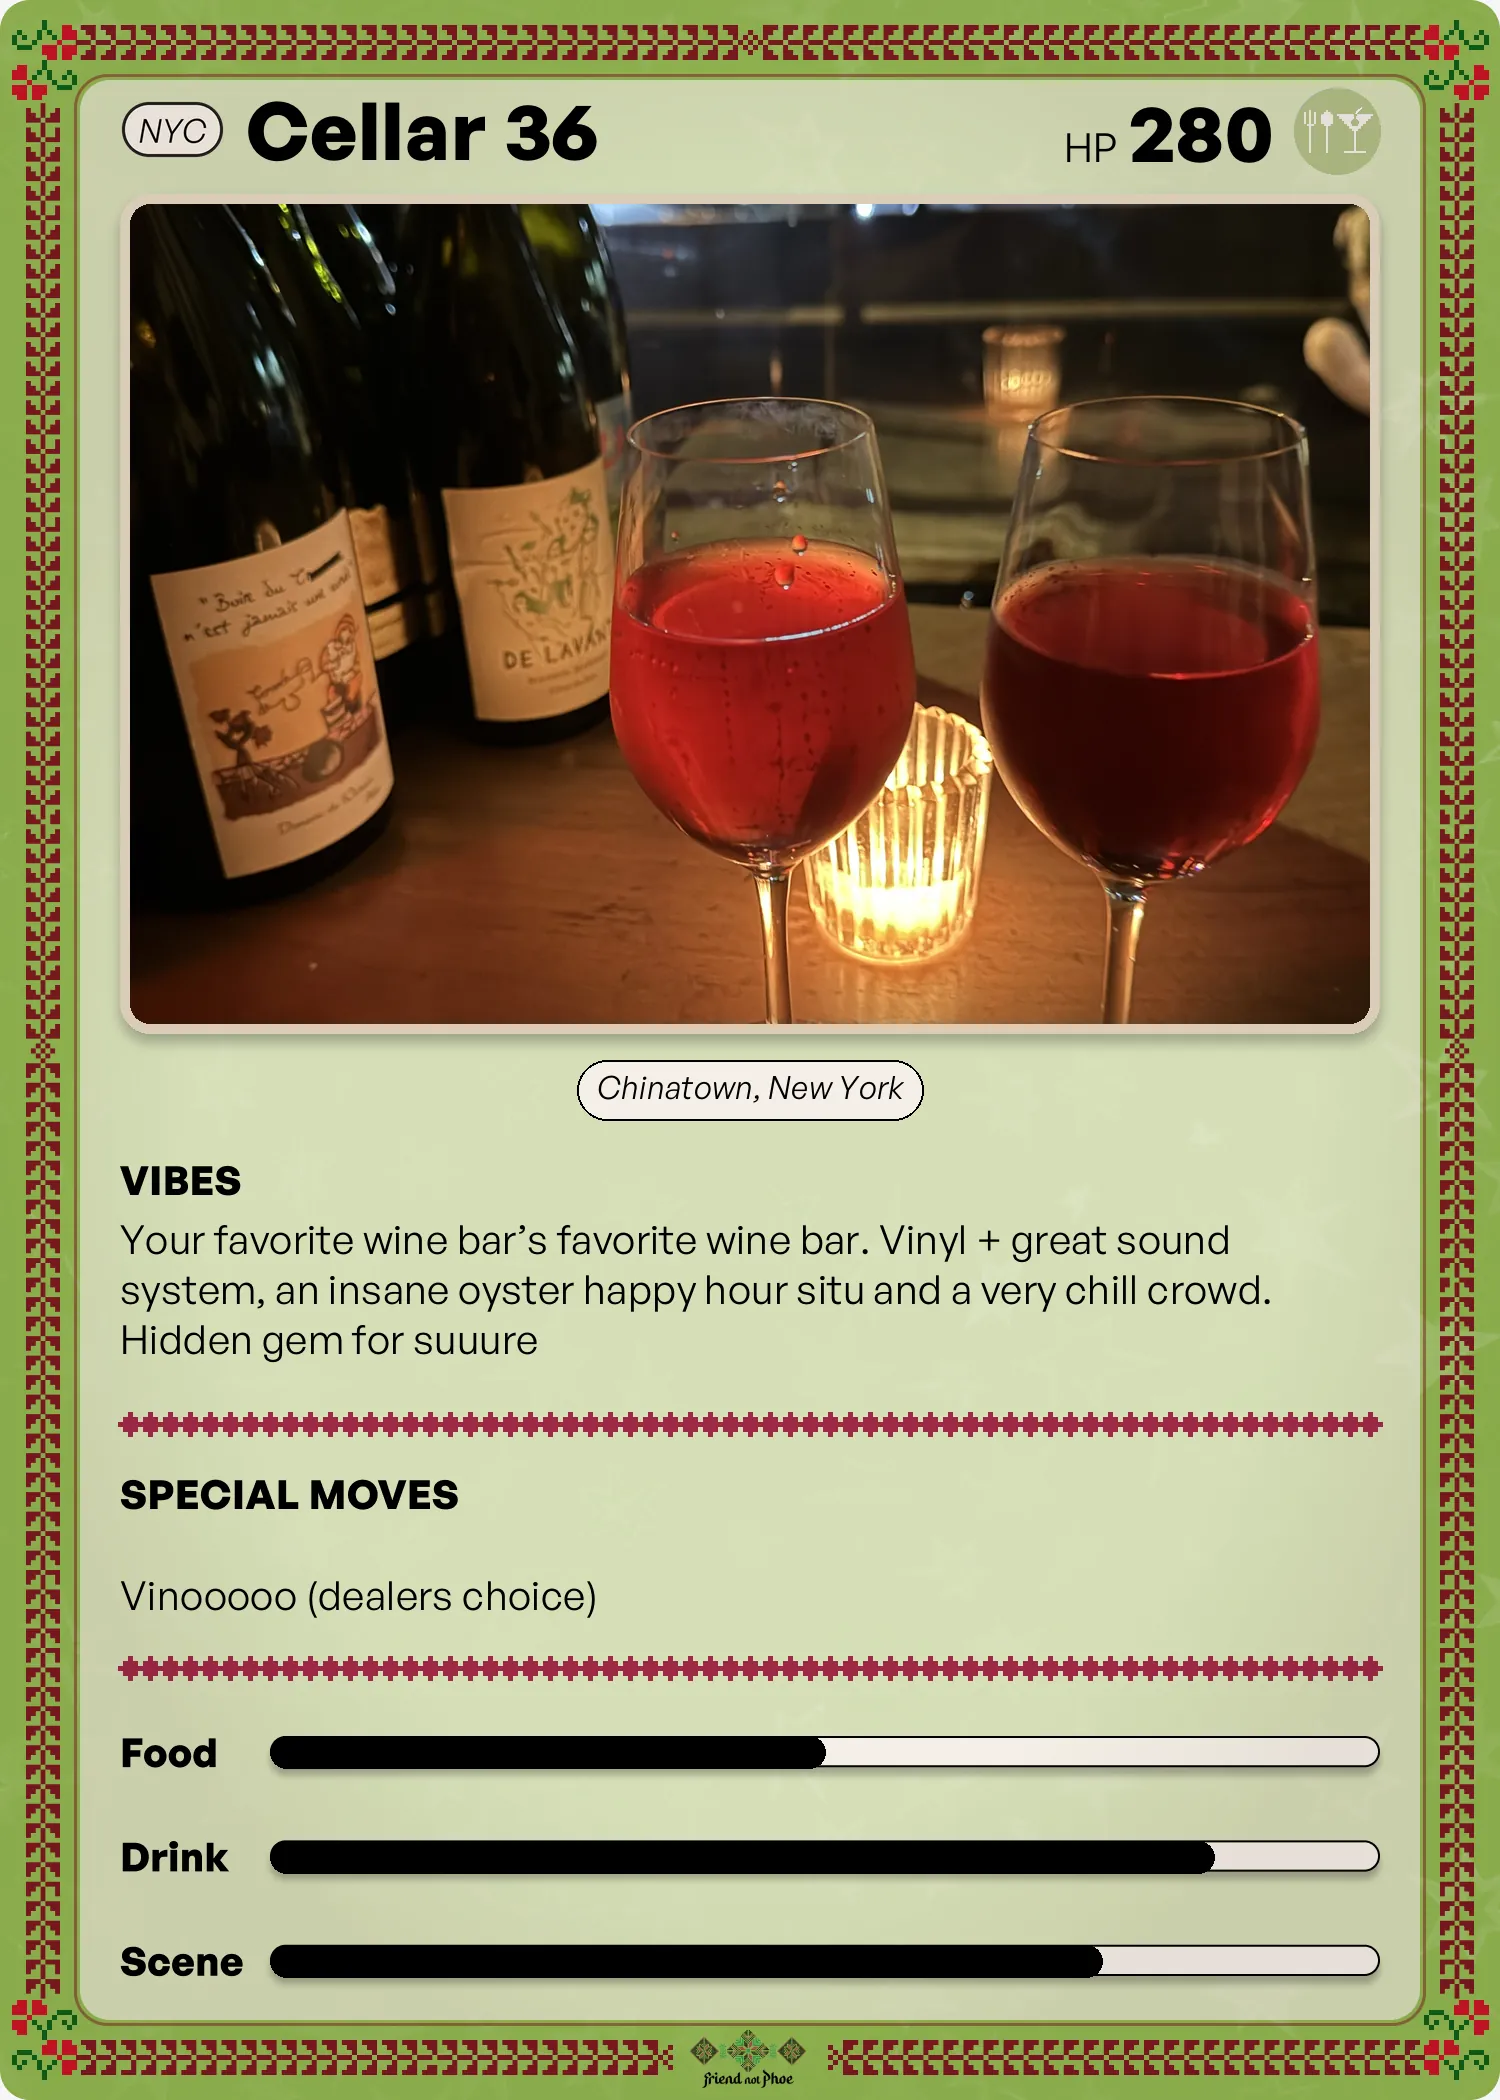
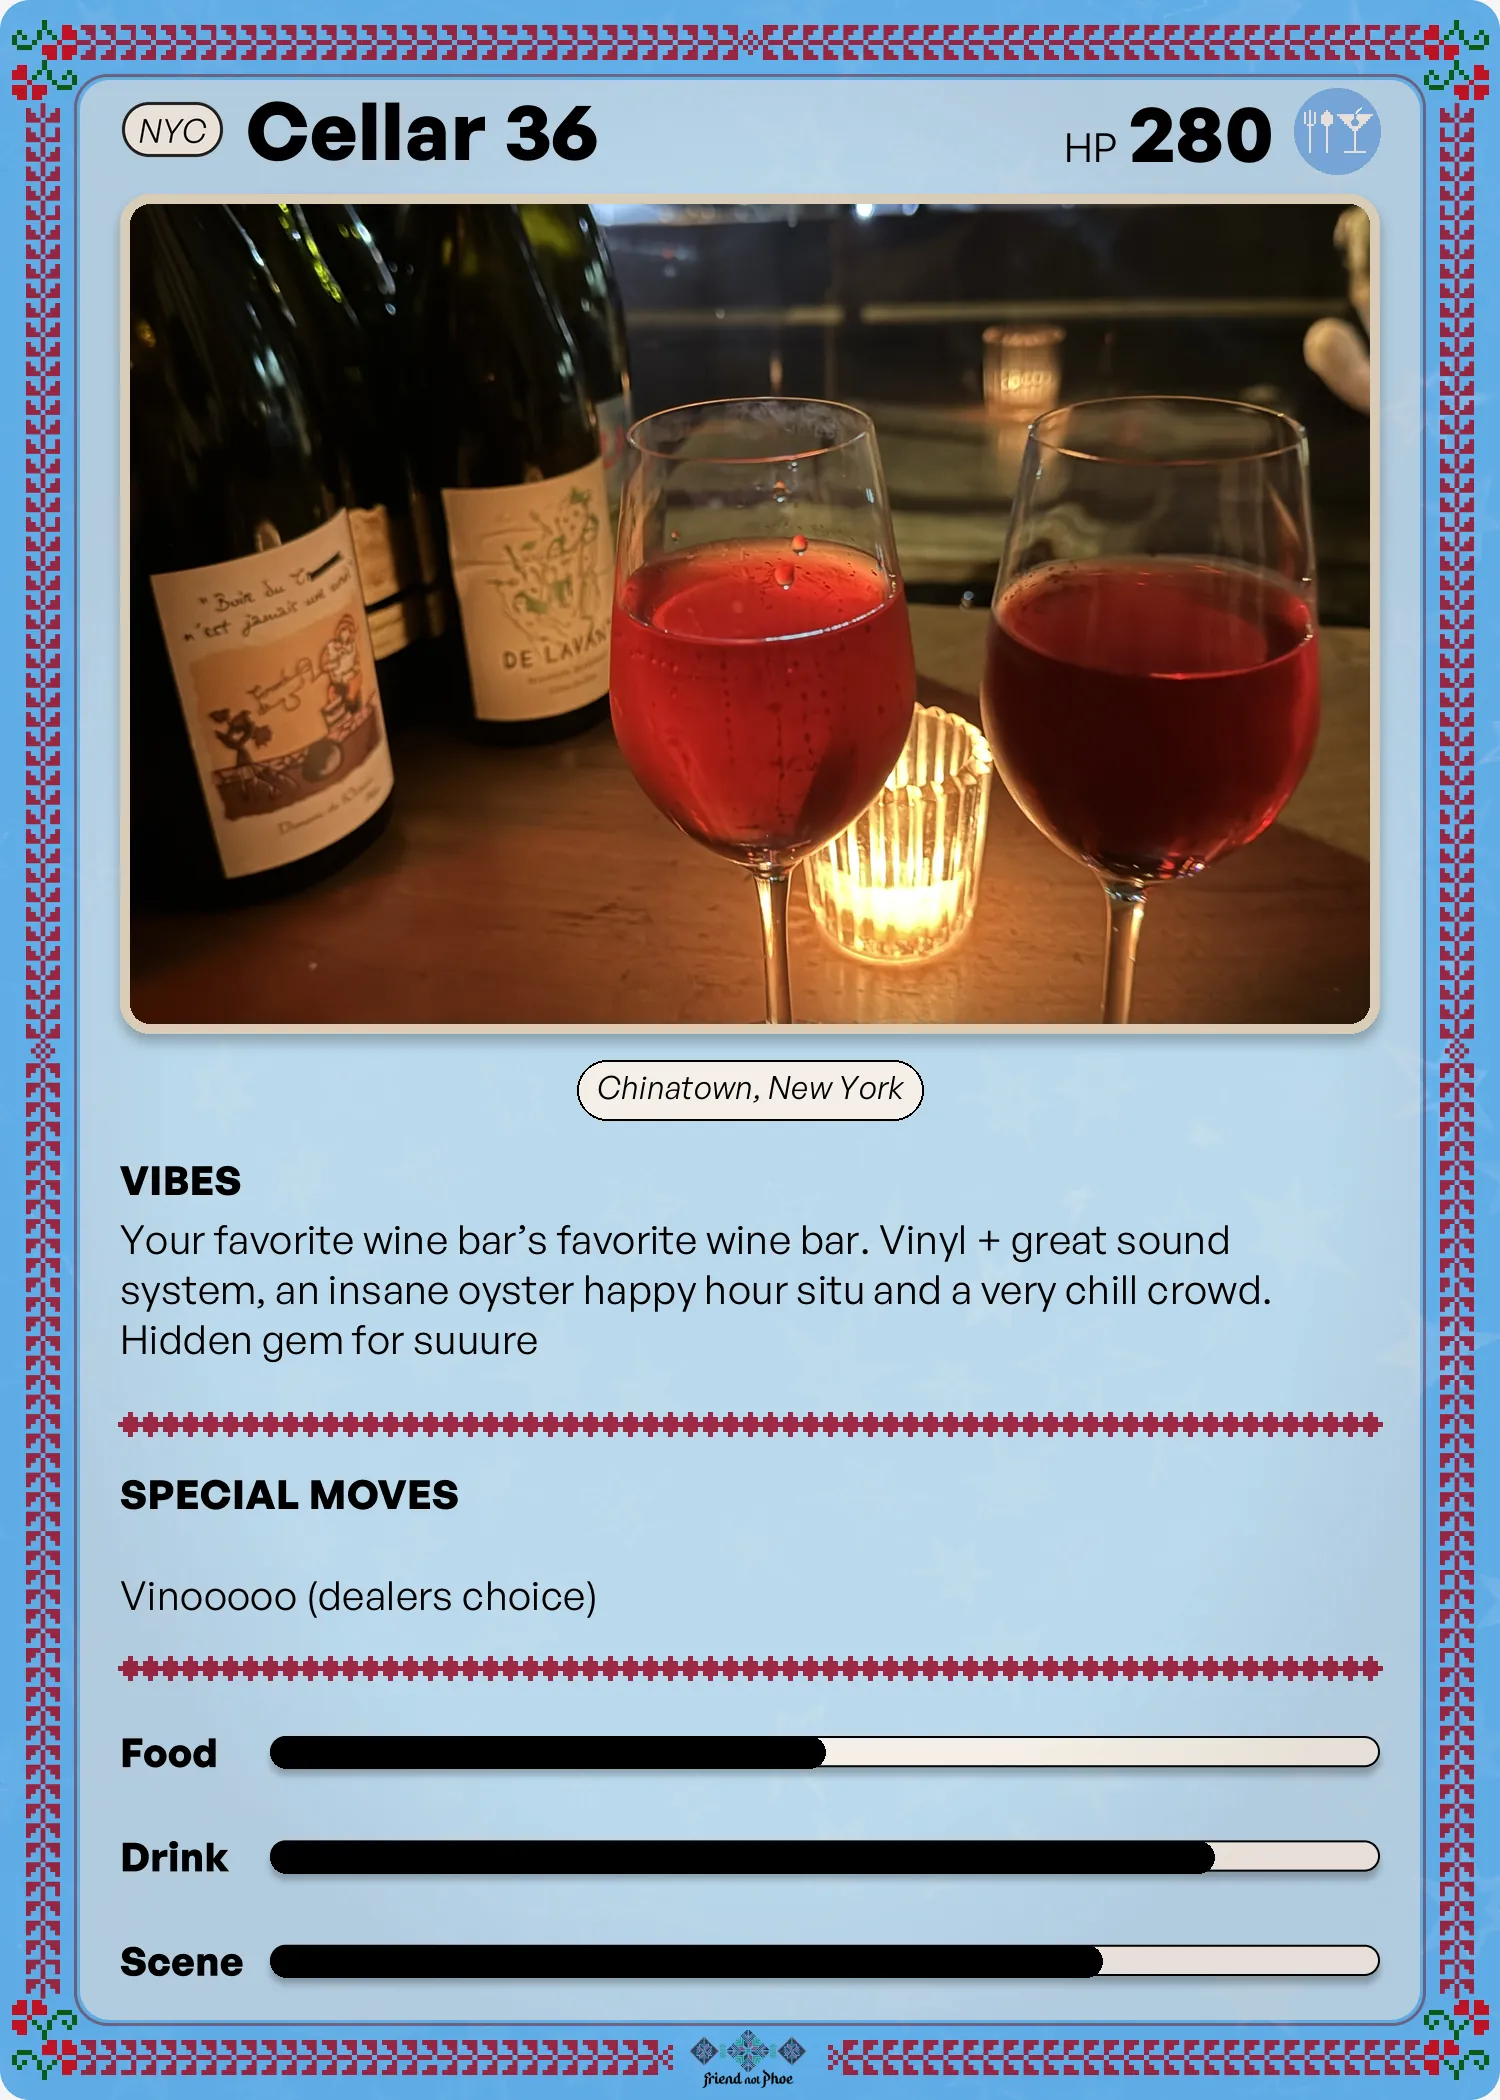
Two new cards (Million Goods, Gigi's) + Cellar 36 goes blue
Million Goods (Greenpoint wine bar, wasta, blue — sheet said green but
it's a drink spot, flagged to Zaid) and Gigi's (Greenpoint, green).
Cellar 36 re-cut on the blue chassis per Zaid (was green), vibes
food->drink, v=6.

diff --git a/index.html b/index.html
@@ -1916,10 +1916,10 @@
                 name: "Cellar 36",
                 city: 'NYC',
                 hp: 280,
-                vibes: ['food'],
+                vibes: ['drink'],
                 lat: 40.715,
                 lng: -73.993,
-                image: 'assets/cards/cellar36.webp?v=5'
+                image: 'assets/cards/cellar36.webp?v=6'
             },
             {
                 id: 69,
@@ -1981,6 +1981,29 @@
                 lat: 40.7270,
                 lng: -73.9870,
                 image: 'assets/cards/odo.webp?v=5'
+            },
+            {
+                id: 75,
+                name: "Million Goods",
+                city: 'NYC',
+                hp: 250,
+                wasta: true,
+                vibes: ['drink'],
+                place: "Million Goods, 88 Franklin St, Brooklyn, NY 11222",
+                lat: 40.72753,
+                lng: -73.95701,
+                image: 'assets/cards/milliongoods.webp'
+            },
+            {
+                id: 76,
+                name: "Gigi's",
+                city: 'NYC',
+                hp: 260,
+                vibes: ['food'],
+                place: "Gigi's, 138 Franklin St, Brooklyn, NY 11222",
+                lat: 40.72963,
+                lng: -73.95736,
+                image: 'assets/cards/gigis.webp'
             }
         ];
 
